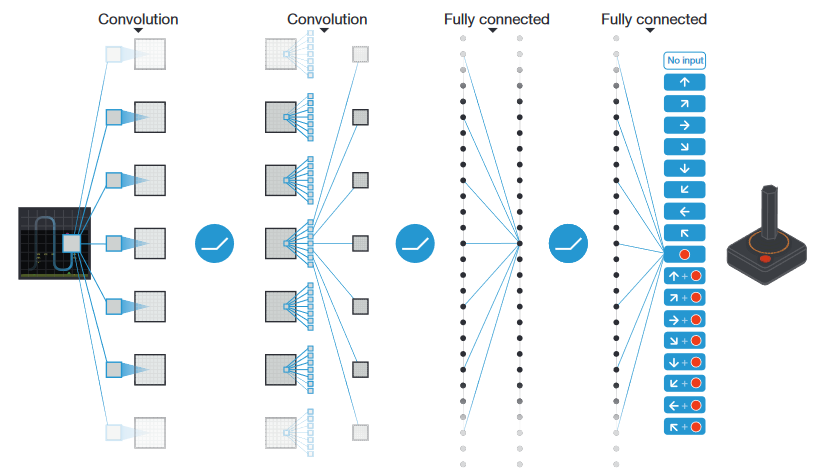
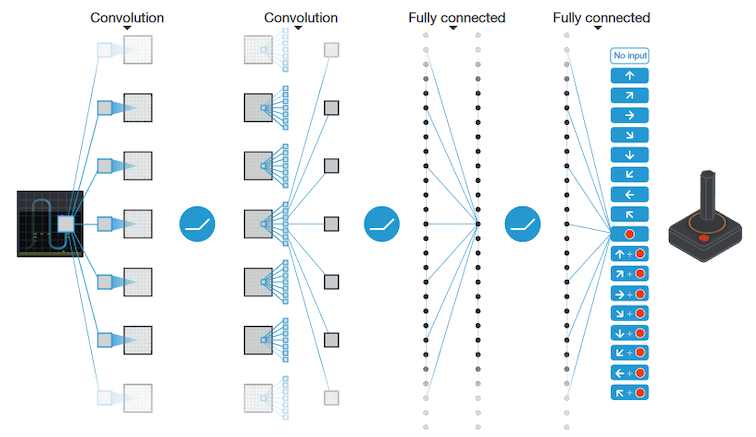
feature: Add DQN algorithm to README.md

diff --git a/README.md b/README.md
@@ -6,7 +6,13 @@
 [image6]: assets/loss_at_iter_i.png "image6"
 [image7]: assets/dqn_conv_net.png "image7"
 [image8]: assets/result_paper.png "image8"
-
+[image9]: assets/deep_q_network.png "image9"
+[image10]: assets/future_disc_return.png "image10"
+[image11]: assets/future_disc_return_bell.png "image11"
+[image12]: assets/future_disc_return_bell_2.png "image12"
+[image13]: assets/loss_func.png "image13"
+[image14]: assets/gradient.png "image14"
+[image15]: assets/algo_1.png "image15"
 
 # Deep Reinforcement Learning Theory - Deep Q-Networks
 
@@ -17,6 +23,7 @@
 - [Experience Replay](#experience_replay)
 - [Fixed Q Targets](#fixed_q_targets)
 - [Reference: Human-level control through deep reinforcement learning](#paper)
+- [The DQN Algorithm](#algo_1)
 - [Setup Instructions](#Setup_Instructions)
 - [Acknowledgments](#Acknowledgments)
 - [Further Links](#Further_Links)
@@ -83,6 +90,8 @@ these convolutional layers also extract some temporal properties across those fr
 
 - This same architecture was used for all the Atari games they tested on, but each game was learned from scratch with a freshly initialized network.
 
+    ![image9]
+
 ### Modifications due to unstable and ineffective policy
 - Training such a network requires a lot of data,
 but even then, it is not guaranteed to converge on the optimal value function.
@@ -139,25 +148,17 @@ That is between consecutive experience tuples.
     - DQNs learn successful policies from sensor inputs using end-to-end RL
     - Atari 2600 games are the baseline for this study (49 games)
     - Use same algorithm, network architecture and hyperparameters for all 49 games
-- **Input**: 
-    - Pixels (210 x 160) colour video at 60 Hz)
-    - Game score
-- **Preprocessing**:
-    - Raw Atari2600 frames 210xx 160 pixel images with a 128-colour palette, can be demanding in terms of computationand memory requirements
-    - We apply a basic preprocessing step aimed at reducing the input dimensionality and dealing with some artefacts of the Atari 2600 emu-lator. First, to encode a single frame we take the maximum value for each pixel colour alue over the frame being encoded and the previous frame. This was necessary toremove flickering that is present in games where some objects appear only in evenframes while other objects appear only in odd frames, an artefact caused by thelimited number of sprites Atari 2600 can display at once. Second, we then extractthe Y channel, also known as luminance, from the RGB frame and rescale it to84384. The functionwfrom algorithm 1 described belowappliesthis preprocess-ing to themmost recent frames and stacks them to produce the input to theQ-function, in whichm5
-- **Architecture**:
-    - DQN by using
-    - Deep neural convolutional networks with stochastic gradient descent
-- **Workflow**:
-    - Agent interacts with environment
-    - Observations
-    - Actions
-    - Rewards
-- **Goal of agent**: select actions which maximize cumulative future rewards
-- **Startegy**: 
+    - Prior knowledge relies only in:
+        - visual images (conv network)
+        - game specific score
+        - number of actions 
+        - life count
+
+- **Strategy**: 
     - Use deep convolutional neural network to approximate the **optimal action value function**
 
         ![image5]
+
         which is the maximum sum of rewards **r<sub>t</sub>** discounted by **γ** at each time-step **t**, achievable by a behaviour policy **π=P((a|s)**, after making an observation **s** and taking an action **a**.
 
     - Get a **guess** of the action value function **Q(s,a,θ<sub>i</sub>)** using the neural network shown in figure below
@@ -165,16 +166,17 @@ That is between consecutive experience tuples.
     - Use **Experience Replay** and **Fixed Targets** due to instabilities (triggered by correlations) 
         - Store agents experience **e<sub>t</sub> = (s<sub>t</sub>,a<sub>t</sub>, r<sub>t</sub>,s<sub>t+1</sub>)** at time step **t**
         - Store it in data set **D<sub>t</sub> = {e<sub>1</sub>, ..., e<sub>t</sub>}** 
-        - Apply **Q-Learning updates** on samples of experience drawn from **D<sub>t</sub> uniformly at **random**
+        - Apply **Q-Learning updates** on samples of experience drawn from **D<sub>t</sub>** uniformly at **random**
         - **Loss function** at iteration **i**:
-        ![image6]
+
+            ![image6]
 
             **γ**: discount factor determining the agent’s horizon
 
             **θ<sub>i</sub>**: weights of the Q-network at iteration **i** 
 
             **θ<sub>i</sub><sup>-</sup>**: the network parameters **used to** compute the target at iteration **i**. 
-        - The target net-work parameters **θ<sub>i</sub><sup>-</sup>** are only updated with the Q-network parameters **θ<sub>i</sub>** every **C** steps and are **held fixed between individual updates**.
+        - The target network parameters **θ<sub>i</sub><sup>-</sup>** are only updated with the Q-network parameters **θ<sub>i</sub>** every **C** steps and are **held fixed between individual updates**.
 
     ![image7]
 
@@ -185,6 +187,128 @@ That is between consecutive experience tuples.
         - **average predicted Q-values**
 
     ![image8]
+- **Preprocessing**:
+    - Raw Atari2600 frames 210xx 160 pixel images with a 128-colour palette, can be demanding in terms of computationand memory requirements. 
+        - Reduce the input dimensionality
+        - Reduce artefacts of the Atari 2600 emulator.
+    - First: Take maximum value for each pixel colour over the actual and the previous frame to remove flickering of objects (which appear only in even frames while other objects appear only in odd frames)
+    - Second: Extract the Y channel, also known as luminance, from the RGB frame and rescale it to **84 x 84** (greyscale). 
+    - Take the **m=4** most recent frames and stacks them to produce the input to the Q-function
+    - Function **Φ** applies the preprocessing to the 4 most recent frames
+- Code availability: [download](https://sites.google.com/a/deepmind.com/dqn/)
+- **Input**: 
+    - Pixels (210 x 160) colour video at 60 Hz)
+    - Game score
+- **Model architecture**:
+    - DQN by using
+    - Deep neural convolutional networks with stochastic gradient descent
+    - Compute Q-values for all possible actions in a given state with only a single forwatd pass through the network
+        - Use a **separate output unit** for each possible **action**
+        - Only **state representation is an input** to the neural network
+    - **Input**: 84x84x4 images produced by the preprocessing map **Φ**
+    - **1st hidden layer**: conv layer, 32 filter, 8x8 kernel, stride 4, ReLU
+    - **2nd hidden layer**: conv layer, 64 filter, 4x4 kernel, stride 2, ReLU,
+    - **3rd hidden layer**: conv layer, 64 filter, 4x4 kernel, stride 1, ReLU
+    - **4th hidden layer**: fully connected, 512 rectifier units
+    - **Output layer**: linear layer with a single output for each action
+    - Number of outputs vary between 4 and 18 depending on the game
+- **Training details**:
+    - Use same network architecture, learning rate and hyperparameters for all 49 games
+    - Scale (clip) scores (as they vary from game to game). This limits scale of error derivatives (therefore same learning rate can be used)
+        - Positive reward to 1
+        - Negative reward to -1 
+        - No reward = 0
+    - Optimizer: RMSprop with minibatch size 32
+    - **ε-greedy** policy, scaled linear from 1.0 to 0.1 over the first million frames, fixed at 0.1 thereafter
+    - Number of frames played: 50 million (38 days)
+    - Number of frames for replay buffer (1 million most recent frames)
+    - Frame skipping technique: Agent sees and selects actions on every **k**th frame instead of every frame (here: **k=4**). Last action is repeated on skipped frames. --> Reduces computation, reduces runtime, without lack of learning 
+    - No systematic grid search for hyperparameter choice (all fixed for all games)
+
+- **Evaluation procedure**:
+    - Trained agents were evaluated by playing each game **30 times** for up to **5min** each with different initial random conditions and an **ε-greedy** policy with**ε=0.05**
+    - Used to minimize overfitting effects during evaluation.
+    - This random agent is used as a baseline comparison (with random action at 10 Hz, every 6th frame)
+- **Goal of agent**: select actions which maximize cumulative future rewards
+
+- **Algorithm**
+    - Agent interacts with environment (Atari emulator) in a sequence of 
+        - actions
+        - observations
+        - rewards
+    - At each time-step the agent selects an action **a<sub>t</sub>** from the set of legal game actions **A={1, ..., K}**. 
+    - Action is passed to the emulator. Emulator answers with an image **x<sub>t</sub>** from the emulator, which is a vector of pixel values representing the current screen and a reward **r<sub>t</sub>** from game score
+    - Agent only observes the current screen.
+    - Game score may depend on the whole previous sequence of actions and observations
+    - Therefore, sequences of actions and observations,**s<sub>t</sub>~x<sub>1</sub>,a<sub>1</sub>,x<sub>2</sub>,...,a<sub>t-1</sub>, x<sub>t</sub>**, are input to the algorithm
+    - Algorithm then learns game strategies depending upon these sequences. 
+    - All sequences in the emulator are assumed to terminate in a finite number of time-steps.
+    - **Goal of agent**: select actions which maximize cumulative future rewards
+    - Future rewards are discounted by a factor of **γ** per time-step (**γ**=0.99)
+    - **Future discounted return** at time **t** as 
+
+        ![image10]
+    
+        **T**: time-step at which the game terminates. 
+    - Optimal action-value function **Q<sup>*</sup>(s,a)** as the maximum expected return achievable by following any policy, after seeing some sequences and then taking some action **a**,
+
+        ![image5]
+    
+    - The optimal action-value function obeys an important identity known as the Bellman equation. This is based on the following intuition: if the optimal value **Q<sup>*</sup>(s',a')** of the sequences **s'** at the next time-step was known for all possible actions **a'**, then the optimal strategy is to select the action **a'** maximizing the expected value of **r + γ Q<sup>*</sup>(s',a')**:
+
+        ![image11]
+
+    - Estimate the action-value function by using the Bellman equation as an iterative update
+
+        ![image12]
+
+    - In Theory: Such value iteration algorithms converge to the optimal action-value function **Q<sub>i</sub> -> Q<sup>*</sup>** for **i -> ∞**
+    - In Practice: Use function approximation to estimate the action-value function **Q(s,a,θ) ≈ Q<sup>*</sup>(s,a)**
+
+    - Use a nonlinear function approximator such as a neural network
+    - A neural network function approximator with weights **θ** is a Q-network
+    - A Q-network can be trained by adjusting the parameter **θ<sub>i</sub>** at iteration **i** to reduce the mean-squared error in the Bellman equation, where the optimal target values 
+    **r + γ max<sub>a'</sub>Q<sup>*</sup>(s',a')** are substituted by approximate target values **r + γ max<sub>a'</sub>Q(s',a', θ<sub>i</sub><sup>-</sup>)**
+    using parameters **θ<sub>i</sub><sup>-</sup>** from some previous iteration (**Fixed Targets**).
+    
+    - Use **Experience Replay** and **Fixed Targets** due to instabilities (triggered by correlations) 
+        - Store agents experience **e<sub>t</sub> = (s<sub>t</sub>,a<sub>t</sub>, r<sub>t</sub>,s<sub>t+1</sub>)** at time step **t**
+        - Store it in data set **D<sub>t</sub> = {e<sub>1</sub>, ..., e<sub>t</sub>}** 
+        - Apply **Q-Learning updates** on samples of experience drawn from **D<sub>t</sub>** uniformly at **random**
+        - **Loss function** at iteration **i**:
+
+            ![image13]
+
+            Note that the targets depend on the network weights; this is in contrast with the targets used for supervised learning, which are fixed before learning begins. At each stage of optimization, we hold the parameters from the previous iteration **θ<sub>i</sub><sup>-</sup>**  fixed when optimizing the **i**th loss function **L<sub>i</sub>(θ<sub>i</sub>), resulting in a sequence of well-defined optimization problems. The final term is the variance of the targets, which does not depend on the parameters θ<sub>i</sub> we are currently optimizing,and may therefore be ignored
+
+    - Differentiating the loss function with respect to the weights results in the following gradient:
+
+        ![image14]
+
+    - Optimize the loss function by stochastic gradient descent. The familiar Q-learning algorithm can be recovered in this framework by updating the weights after every time step, replacing the expectations using single samples, and setting **θ<sub>i</sub><sup>-</sup> = θ<sub>i-1</sub>**.
+
+- **Training algorithm for deep Q-networks**
+    - The agent selects and executes actions according to an **ε-greedy** policy based on **Q**. Because using histories of arbitrary length as inputs to a neural network can be difficult, our Q-function instead works on a fixed length representation of histories produced by the function **Φ** described above. 
+    - The algorithm modifies standard online Q-learning in two ways to make itsuitable for training large neural networks without diverging
+    - First, we use a technique known as **experience replay** in which we store the agents experience **e<sub>t</sub> = (s<sub>t</sub>,a<sub>t</sub>, r<sub>t</sub>,s<sub>t+1</sub>)** at time step **t** in a data set **D<sub>t</sub> = {e<sub>1</sub>, ..., e<sub>t</sub>}** pooled over many episodes (where the end of an episode occurs when a terminal state is reached) into a replay memory
+    - During the inner loop of the algorithm, we apply Q-learning updates, or minibatch updates, to samples of experience (s,a,r,s') drawn at random from the pool of stored samples. 
+    - This approach has several advantages over standard online Q-learning. 
+        - First, each step of experience is potentially used in many weight updates, which allows for greater data efficiency. - Second, randomizing the samples breaks these correlations and therefore reduces the variance of the updates. 
+        - Third, when learning on-policy the current parameters determine the next data sample that the parameters are trained on. 
+    - By using experience replay the ehaviour distribution is averaged over many of its previous states, smoothing out learning and avoiding oscillations or divergence in the parameters. 
+    - The algorithm only stores the last **N** experience tuples in the replay memory, and samples uniformly at random from **D** when performing updates.
+    - Use a **separate network for generating the targets** **y<sub>j</sub>** in the Q-learning update. More precisely, every **C** updates we clone the network **Q** to obtain a target network  **^Q** and use **^Q** for generating the Q-learning targets **y<sub>j</sub>** for the following **C** updates to **Q**. 
+    - This modification makes the algorithm more stable compared to standard online Q-learning, where an update that increases **Q(s<sub>t</sub>,a<sub>t</sub>)** often also increases **Q(s<sub>t+1</sub>,a)** for all **a** and hence also increases the target **y<sub>j</sub>**, possibly leading to oscillations or divergence of the policy. Generating the targets using an older set of parameters adds a delay between the time an update to **Q** is made and the time the update affects the targetsyj,making divergence oroscillations much more unlikely.
+    - **Clip** the error term from the update
+     
+        **r + γ max<sub>a'</sub>Q(s',a', &theta;<sub>i</sub><sup>-</sup>) - Q(s,a, &theta;<sub>i</sub>)**
+    
+        to be between -1 and 1. This form oferror clipping further improved the stability of the algorithm
+
+## The DQN Algorithm <a name="algo_1"></a>
+![image15]
+
+
 
 ## Setup Instructions <a name="Setup_Instructions"></a>
 The following is a brief set of instructions on setting up a cloned repository.
